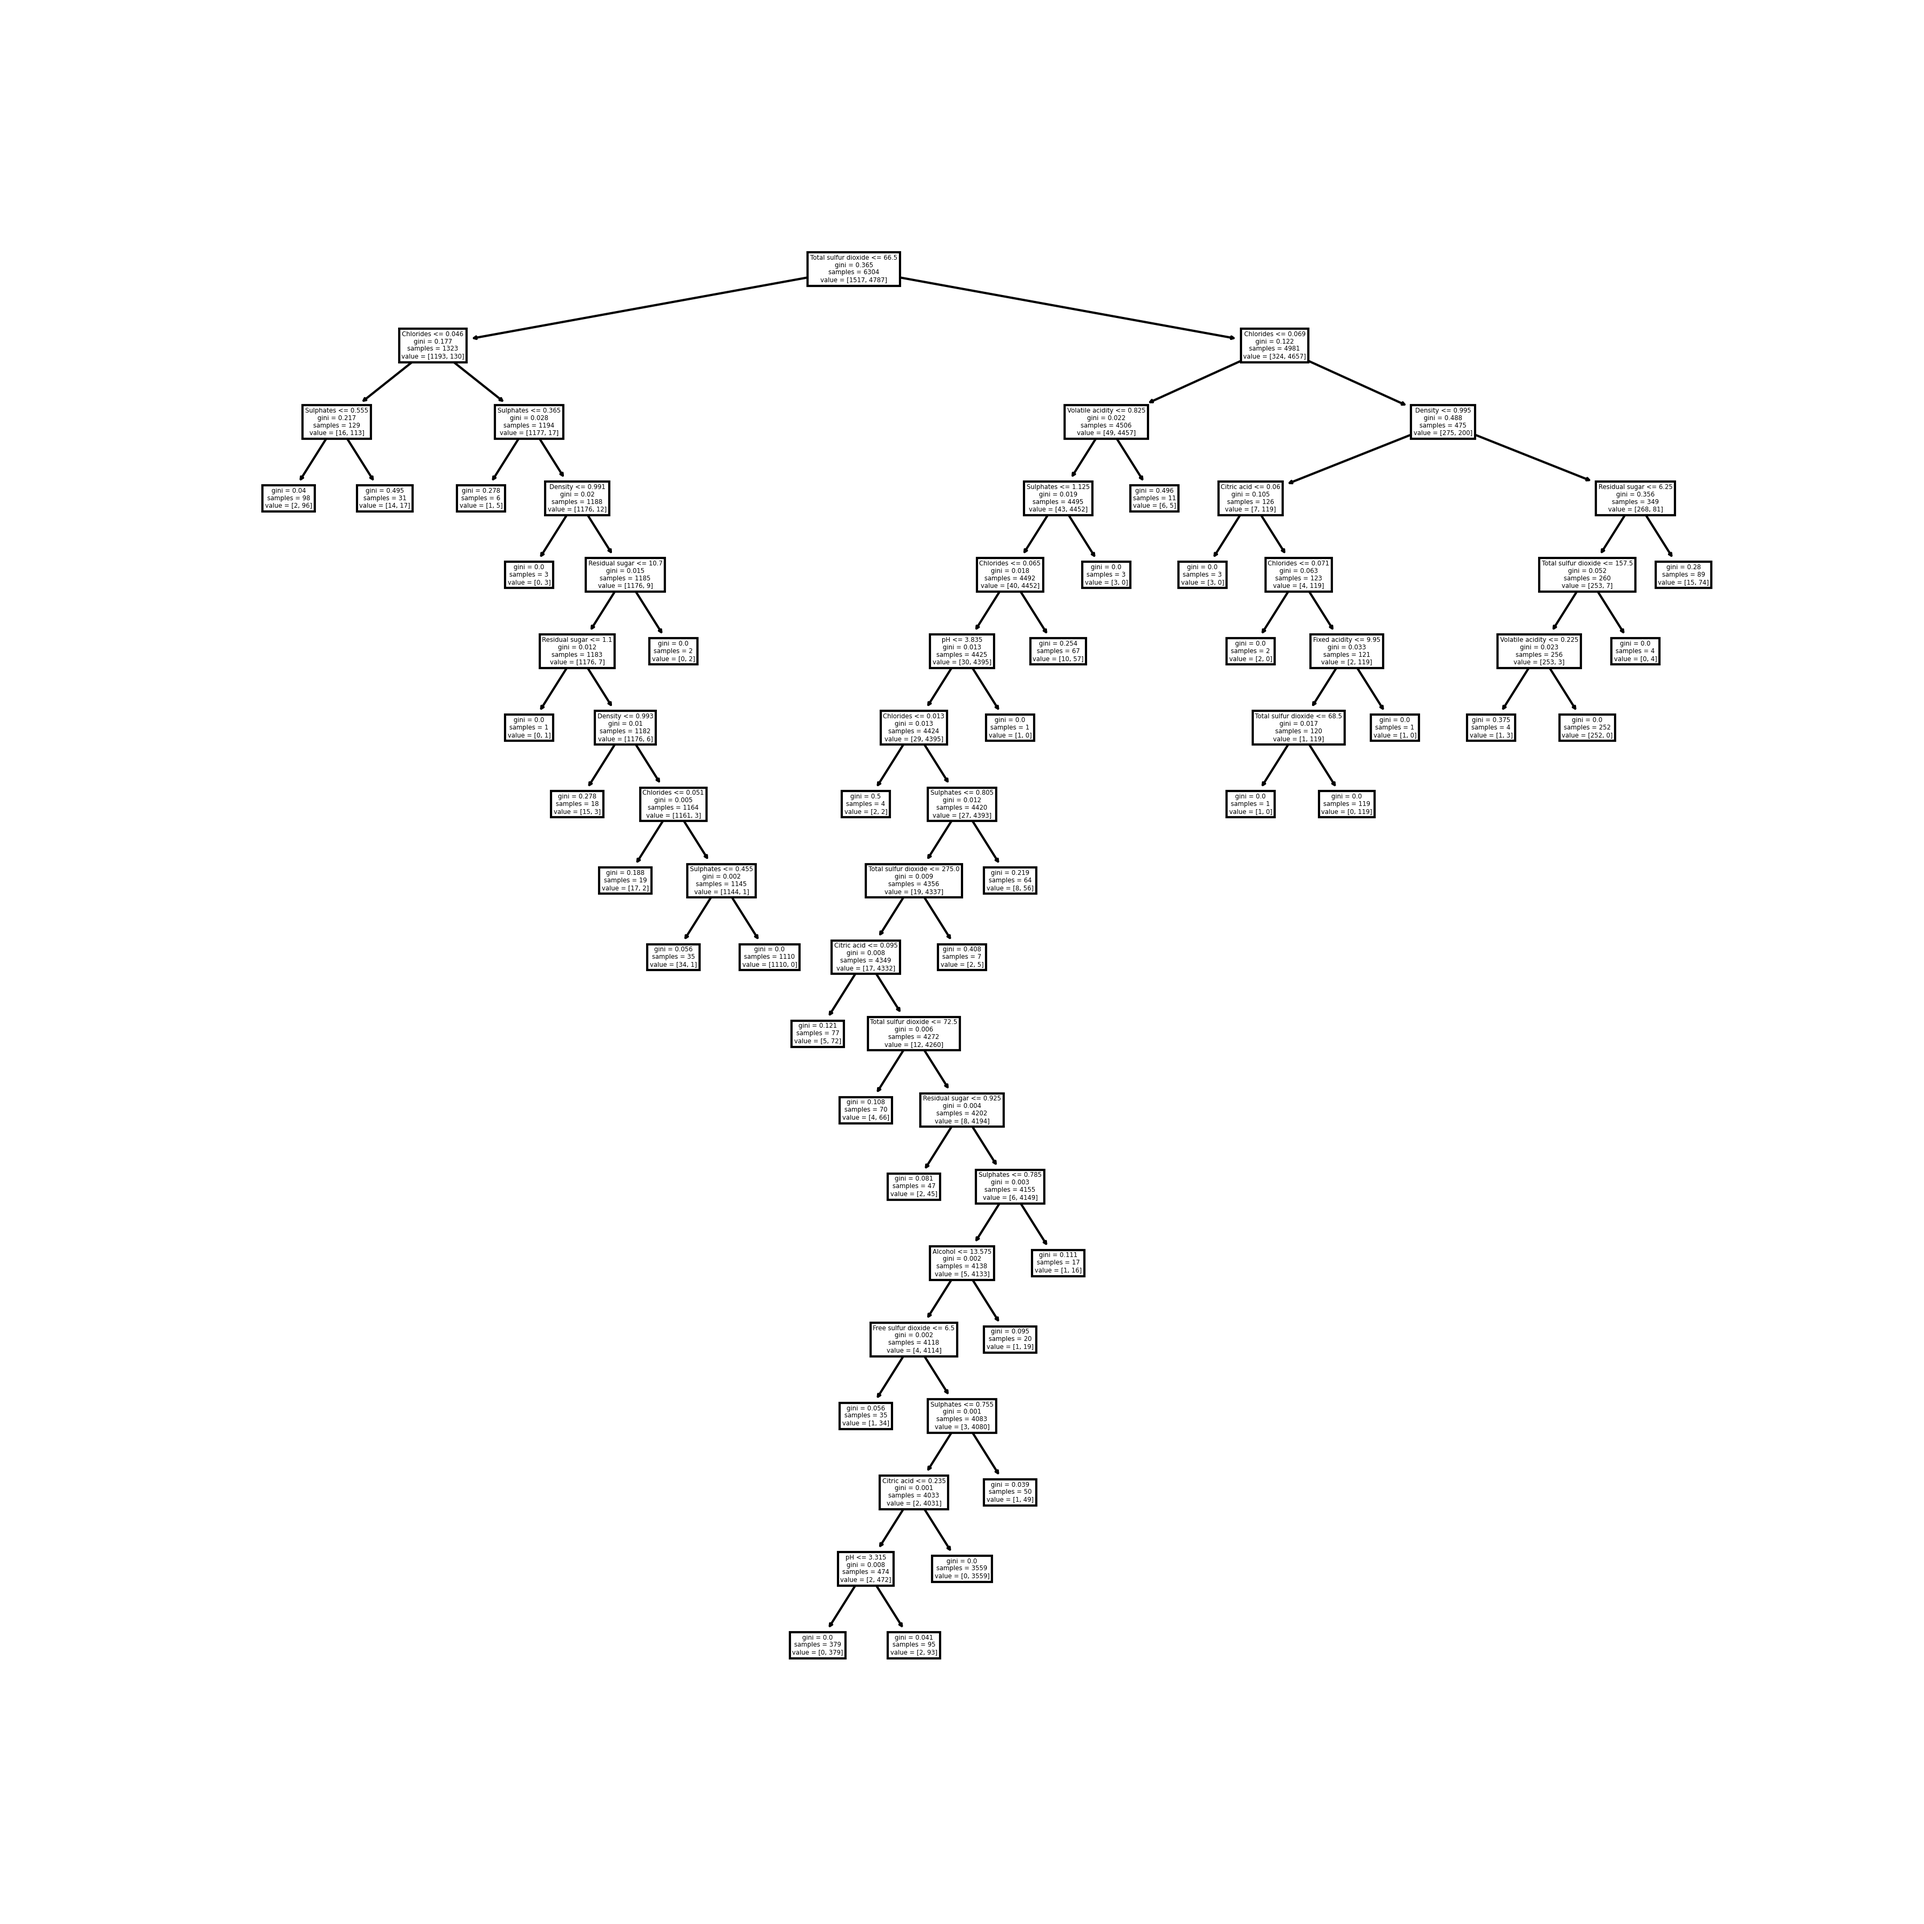
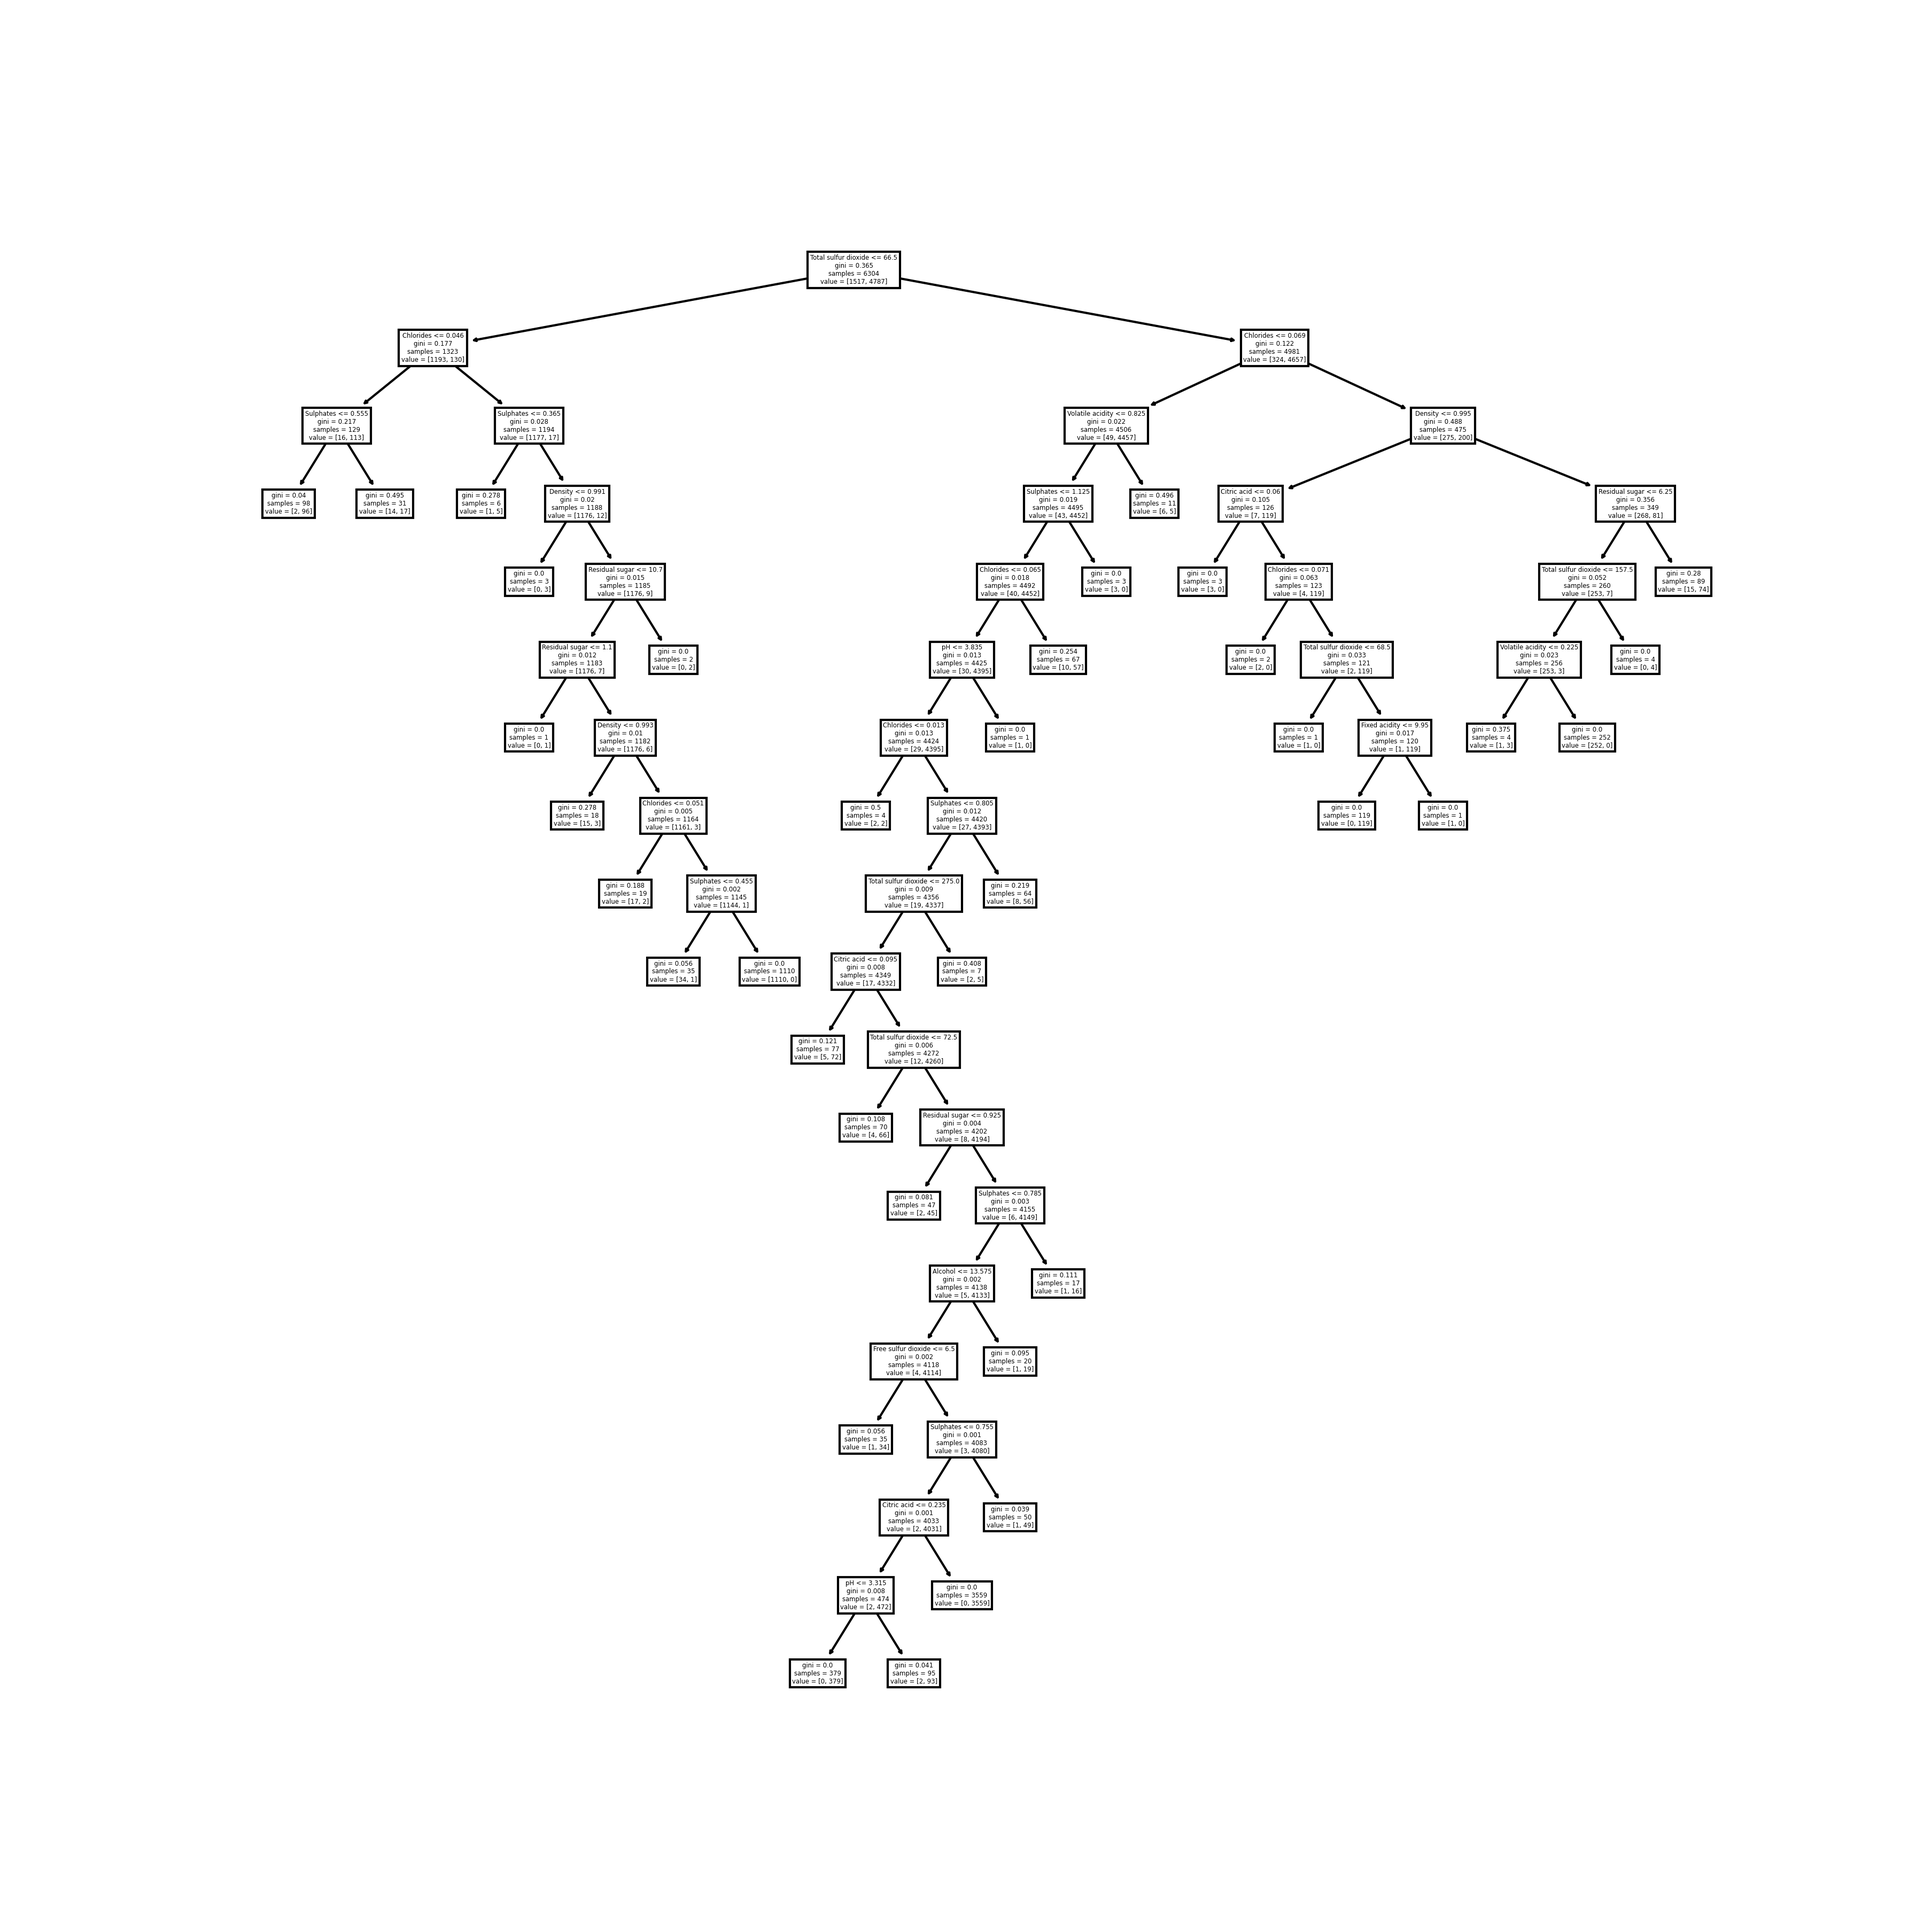
Week 5

diff --git a/examprep.py b/examprep.py
@@ -6,17 +6,12 @@ import toolbox_02450
 version = toolbox_02450.__version__
 print(version)
 
-# x = np.array([1, 2])
-# A = np.array([4, 2])
+# IMPURITY GINI
+node = [225, 81]
+def gini(node):
+  c = len(node)
+  N = sum(node)
+  
+  return 1 - sum([(node[i]/N)**2 for i in range(c)])
 
-# norm_l1 = norm(x-A, 1)
-# print(norm_l1)
-
-# n12 = 8 + 15 + 5
-# n21 = 7 + 11 + 17
-# p = 2*scipy.stats.binom.cdf(min([n12,n21]), n=n12+n21, p=0.5)
-# print(p)
-
-x35 = np.array([-1.24, -0.26, -1.04])
-x53 = np.array([-0.6, -0.86, -0.5])
-print(norm(x35-x53, 4))
+print(gini(node))

diff --git a/Week5.py b/Week5.py
@@ -1,0 +1,21 @@
+import math
+
+#Problem 9.1
+Ir = 1 - (81/306)**2 - (223/306)**2
+Iv1 = 1 - (62/170)**2 - (108/170)**2
+Iv2 = 1 - (19/136)**2 - (117/136)**2
+
+delta = Ir - (170/306)*Iv1 - (136/306)*Iv2
+print(delta)
+
+# Problem 8.2
+
+def logit(w):
+  return 1 / (1 + math.exp(-w))
+
+# A
+w = -0.51 -0.11 -0.36 -0.28
+print(logit(w))
+
+# B
+print(logit(-0.51))

diff --git a/02450Toolbox_Python/Scripts/ex5_1_3.py b/02450Toolbox_Python/Scripts/ex5_1_3.py
@@ -13,7 +13,7 @@ from matplotlib.image import imread
 from ex5_1_1 import *
 
 # Fit regression tree classifier, Gini split criterion, no pruning
-criterion='gini'
+criterion='entropy'
 # dtc = tree.DecisionTreeClassifier(criterion=criterion, min_samples_split=2)
 dtc = tree.DecisionTreeClassifier(criterion=criterion, min_samples_split=1.0/N)
 dtc = dtc.fit(X,y)

diff --git a/02450Toolbox_Python/Scripts/ex5_1_5.py b/02450Toolbox_Python/Scripts/ex5_1_5.py
@@ -28,5 +28,6 @@ X = X[:,0:11]
 attributeNames = attributeNames[0:11]
 # Update N and M
 N, M = X.shape
+print(N, M)
 
 print('Ran Exercise 5.1.5')
